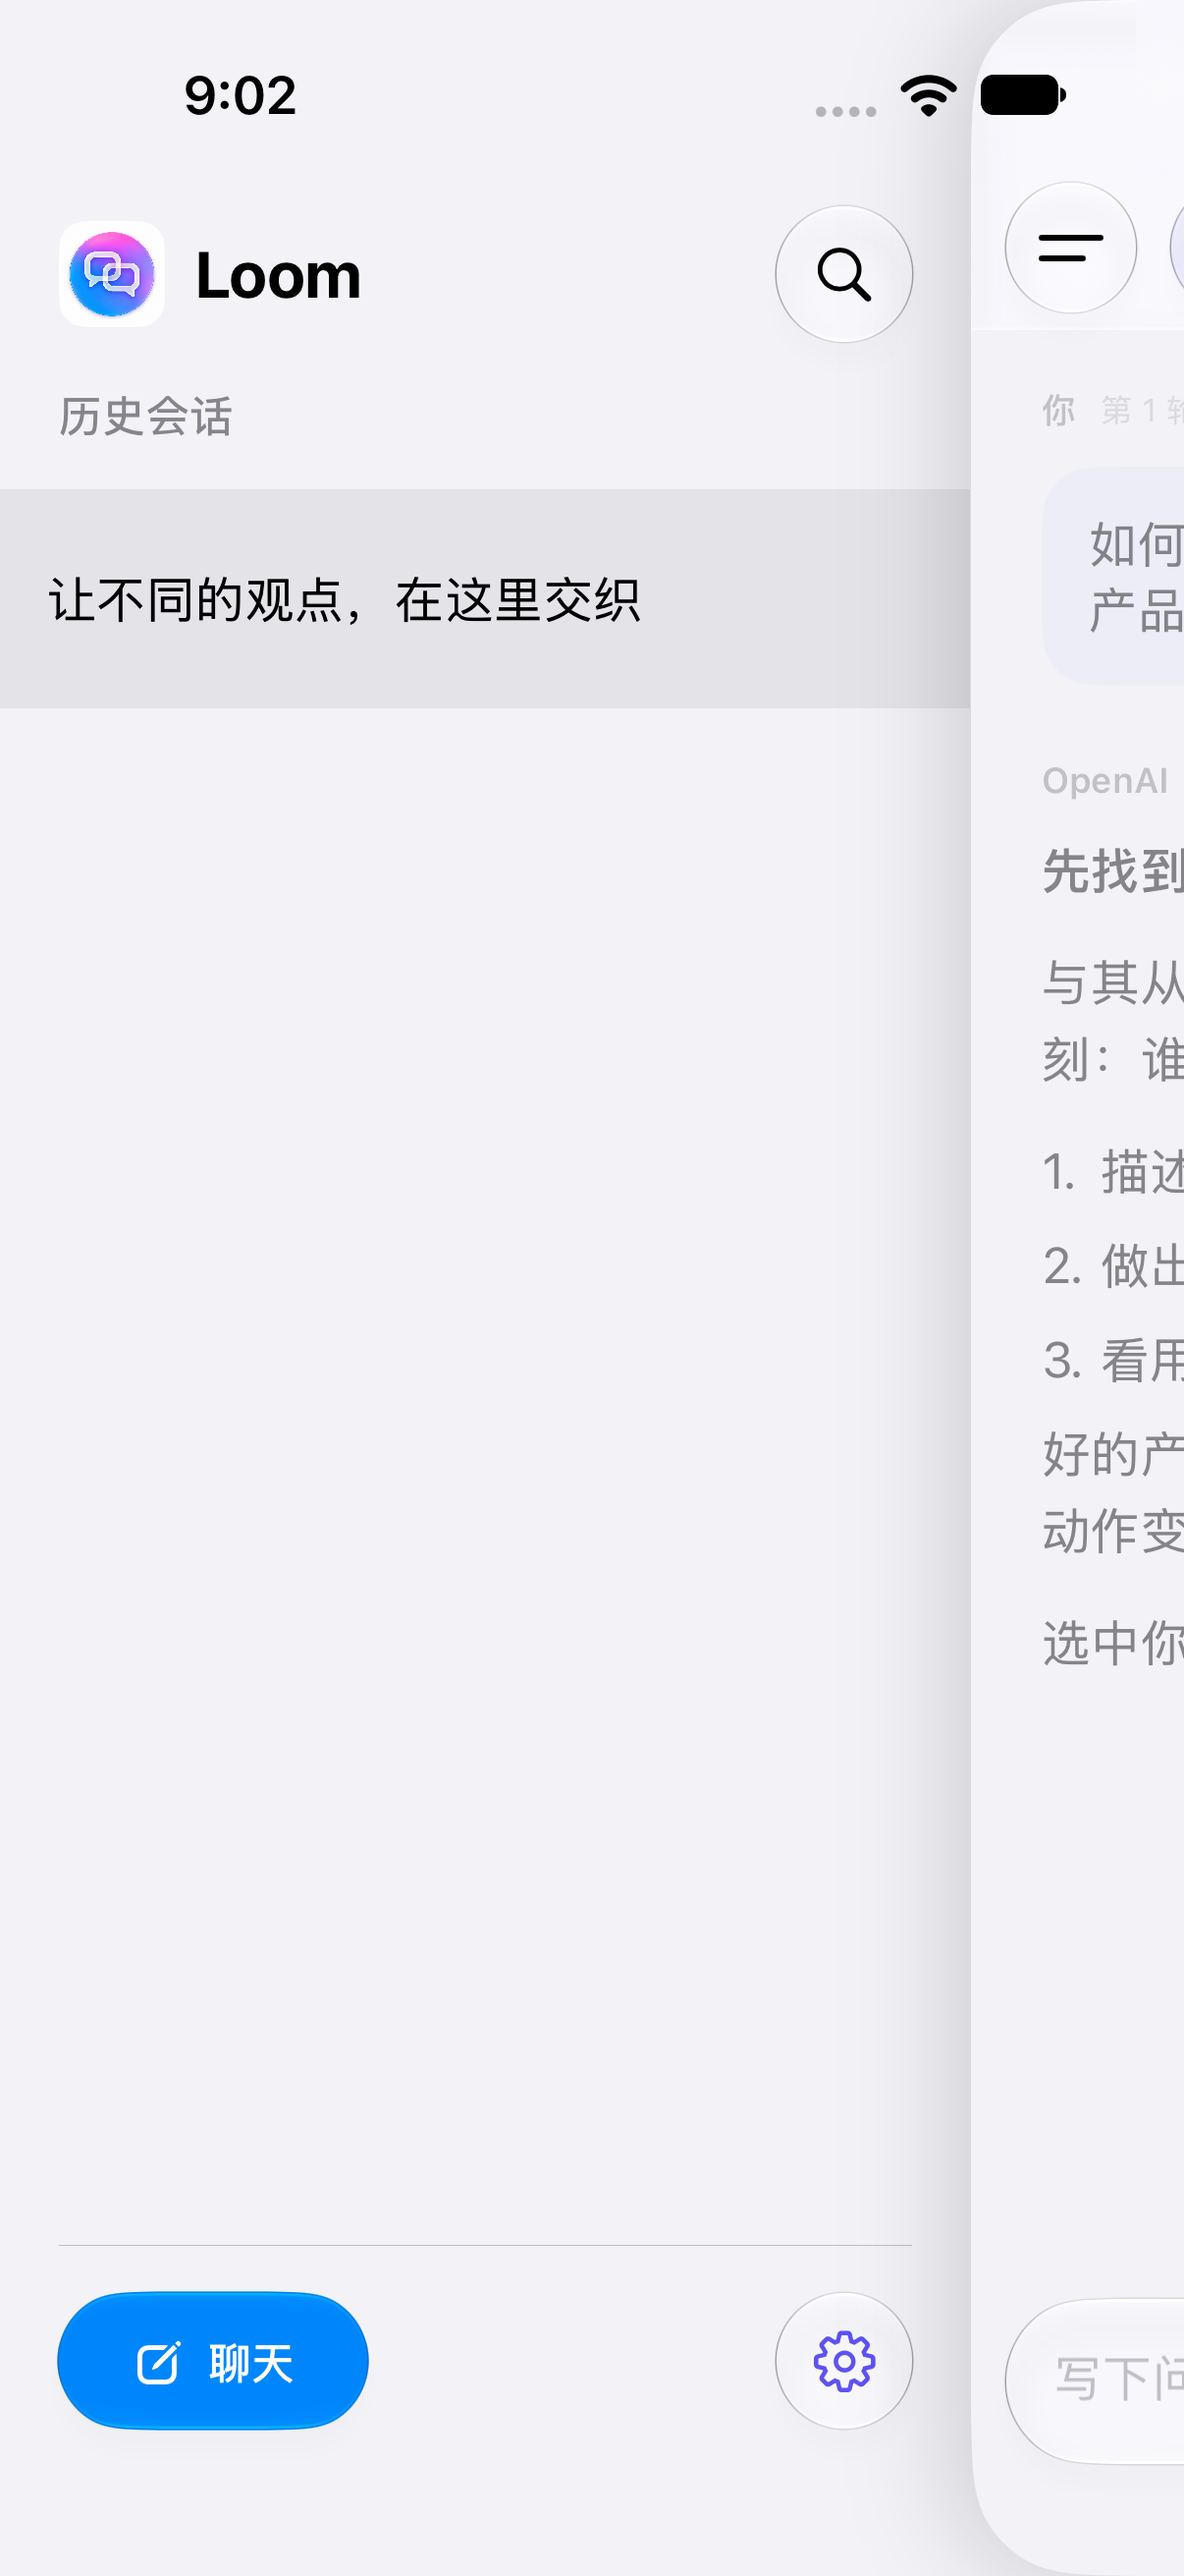
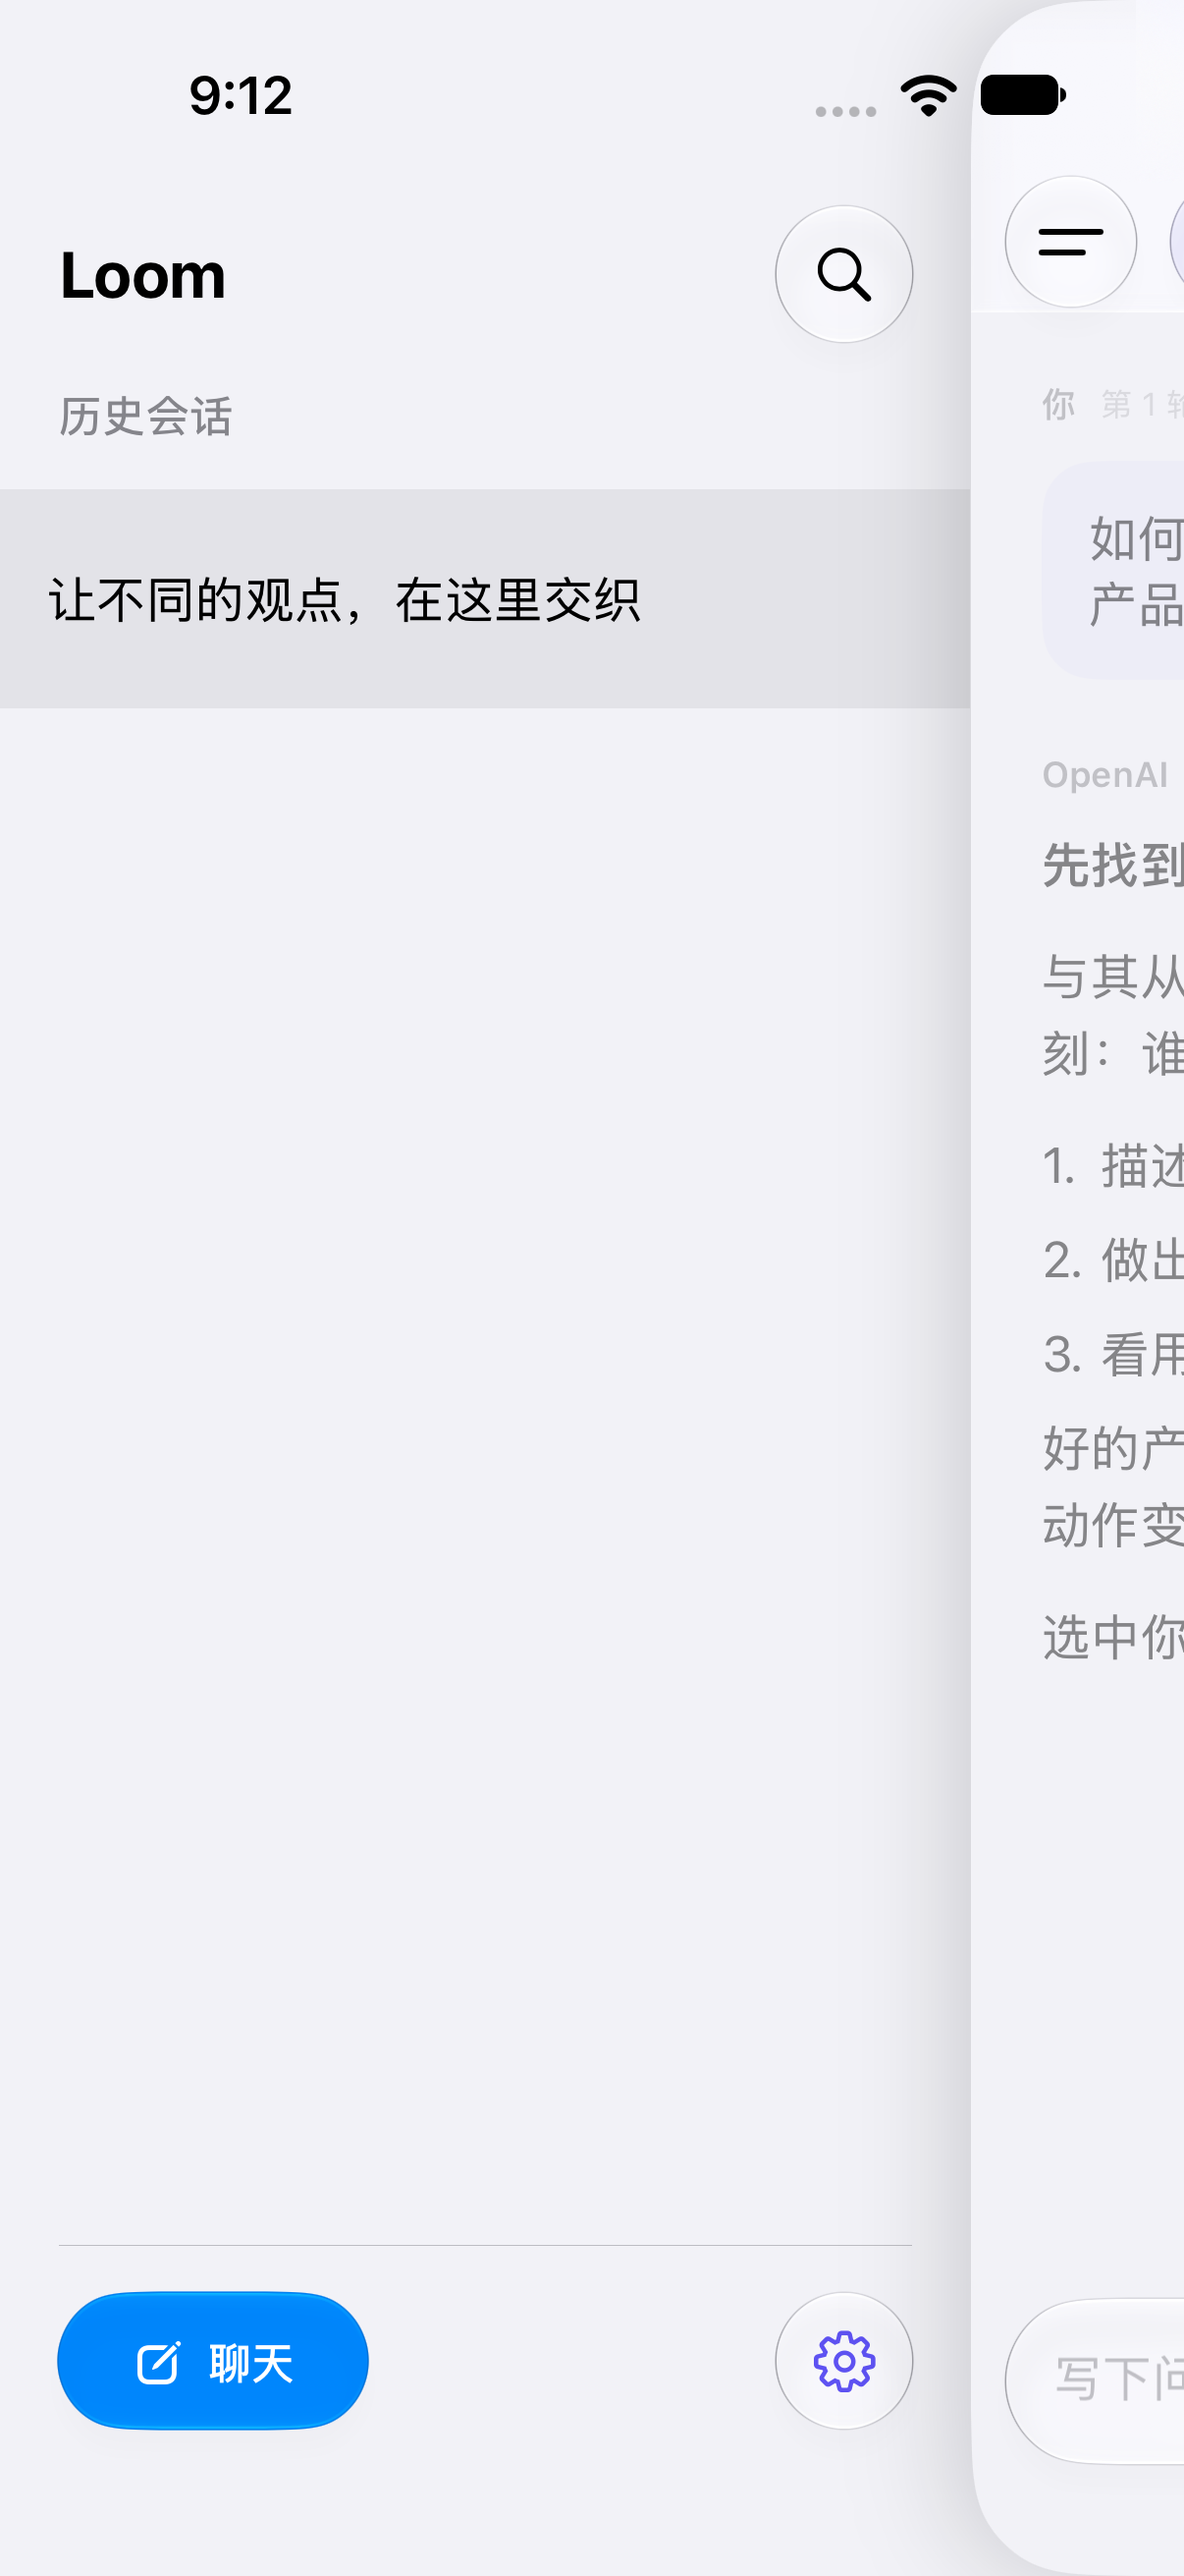
Balance header spacing and simplify drawer branding

diff --git a/Loom/Views/WorkspaceView.swift b/Loom/Views/WorkspaceView.swift
@@ -69,10 +69,10 @@ struct WorkspaceView: View {
                         .padding(.leading, 12)
                         modelTabs
                     }
-                    .padding(.bottom, 2)
-                    .offset(y: -2)
+                    .padding(.vertical, 2)
                     .onGeometryChange(for: CGFloat.self) { $0.size.height } action: { topBarHeight = $0 }
-                    .background { TopBarGlass(safeAreaHeight: geometry.safeAreaInsets.top) }
+                    .background { TopBarGlass(safeAreaHeight: geometry.safeAreaInsets.top + 4) }
+                    .offset(y: -4)
                     .allowsHitTesting(!drawerVisible)
                     .accessibilityHidden(drawerVisible)
                 }
@@ -205,7 +205,7 @@ struct WorkspaceView: View {
                             .id(thread.id)
                         }
                     }.padding(.leading, 12).padding(.trailing, 4)
-                }.padding(.vertical, 2)
+                }
             }
             .scrollIndicators(.hidden)
             .onChange(of: store.selectedModel) { _, id in

diff --git a/Loom/Views/ComposerView.swift b/Loom/Views/ComposerView.swift
@@ -16,7 +16,7 @@ struct ComposerView: View {
                                 }
                                 Button { store.removeQuote(quote.id) } label: { Image(systemName: "xmark.circle.fill") }
                                     .foregroundStyle(.secondary).accessibilityLabel("移除引用：\(quote.text)")
-                            }.padding(10).background(.yellow.opacity(0.42), in: .rect(cornerRadius: 14))
+                            }.padding(10).background(.yellow.opacity(0.9), in: .rect(cornerRadius: 14))
                         }
                     }.padding(.horizontal, 4)
                 }.scrollIndicators(.hidden).accessibilityIdentifier("quote-tray")

diff --git a/Loom/Views/ConversationDrawer.swift b/Loom/Views/ConversationDrawer.swift
@@ -24,10 +24,6 @@ struct ConversationDrawer: View {
         GlassEffectContainer(spacing: 16) {
         VStack(spacing: 16) {
             HStack(spacing: 10) {
-                Image("LoomLogo")
-                    .resizable().scaledToFit().frame(width: 36, height: 36)
-                    .clipShape(.rect(cornerRadius: 9))
-                    .accessibilityHidden(true)
                 Text("Loom").font(.title2.bold())
                 Spacer()
                 Button {
